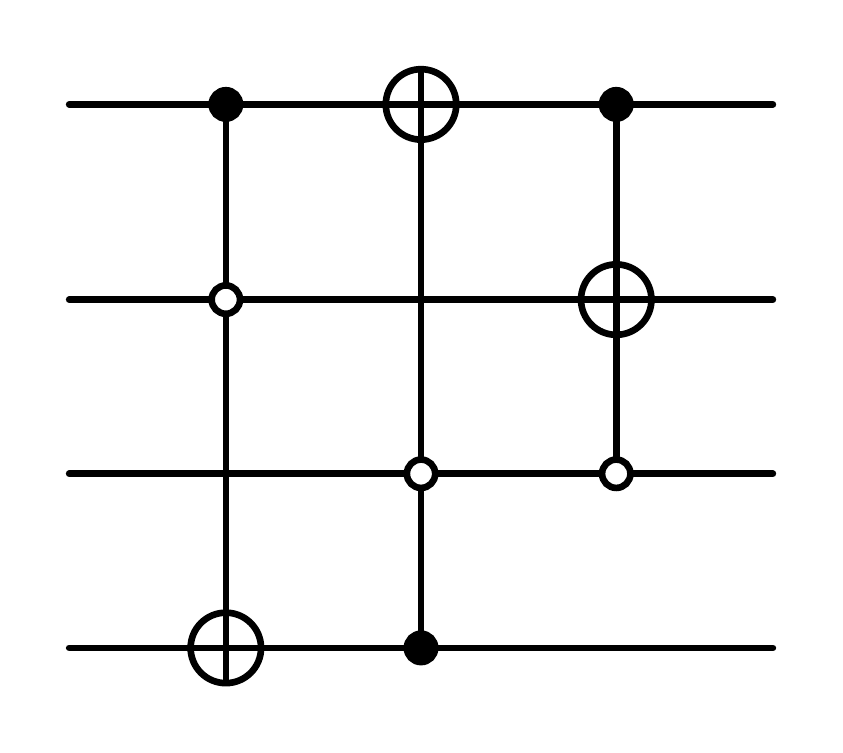
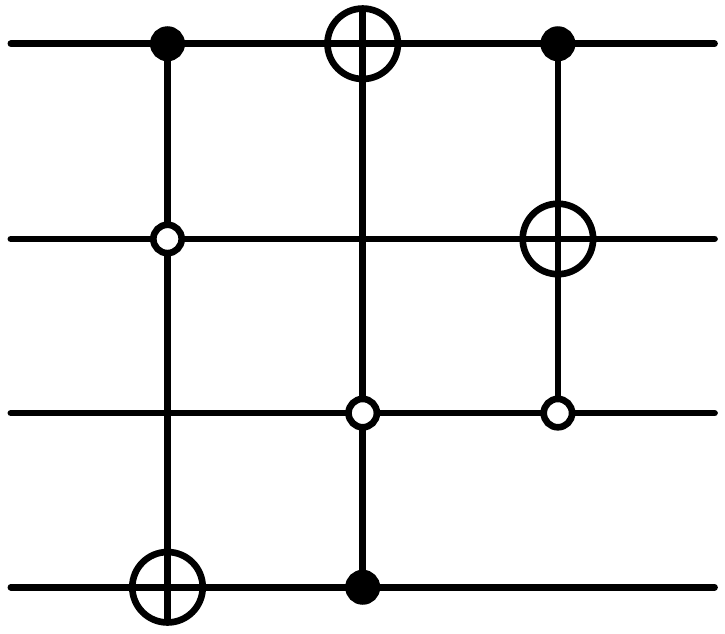
cropping circuits

Changed region(s): [[0.0, 0.0, 1.0, 0.989]]

diff --git a/howto.md b/howto.md
@@ -54,7 +54,7 @@ The reversible gates that we consider are [their own inverse](https://en.wikiped
 
 However, since the permutation group is nonabelian, gates do not commute in general.
 
-![don't commute](/assets/img/ckt/no-commute.png){: width="60%"}
+![don't commute](/assets/img/ckt/no-commute.png){: width="50%"}
 
 At first glance, we might expect that the set of reversible circuits on $$n$$ wires, $$\mathcal C_n$$, computes all of the $$n$$-bit permutations, $$\mathbb S_{2^n}$$. However, in the general case, reversible circuits only compute the _even_ permutations, $$\mathbb A_{2^n}$$.[^1] These are the permutations with an even number of transpositions.
 